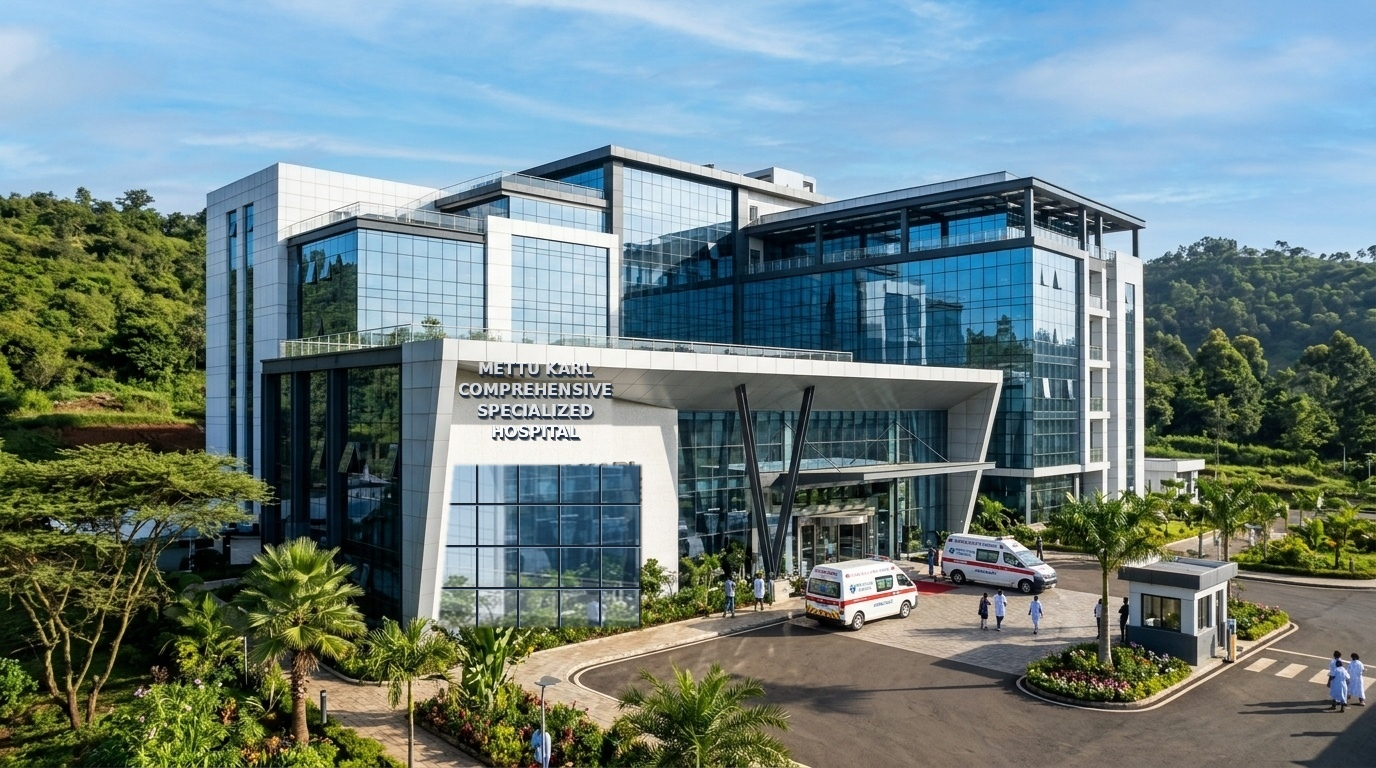
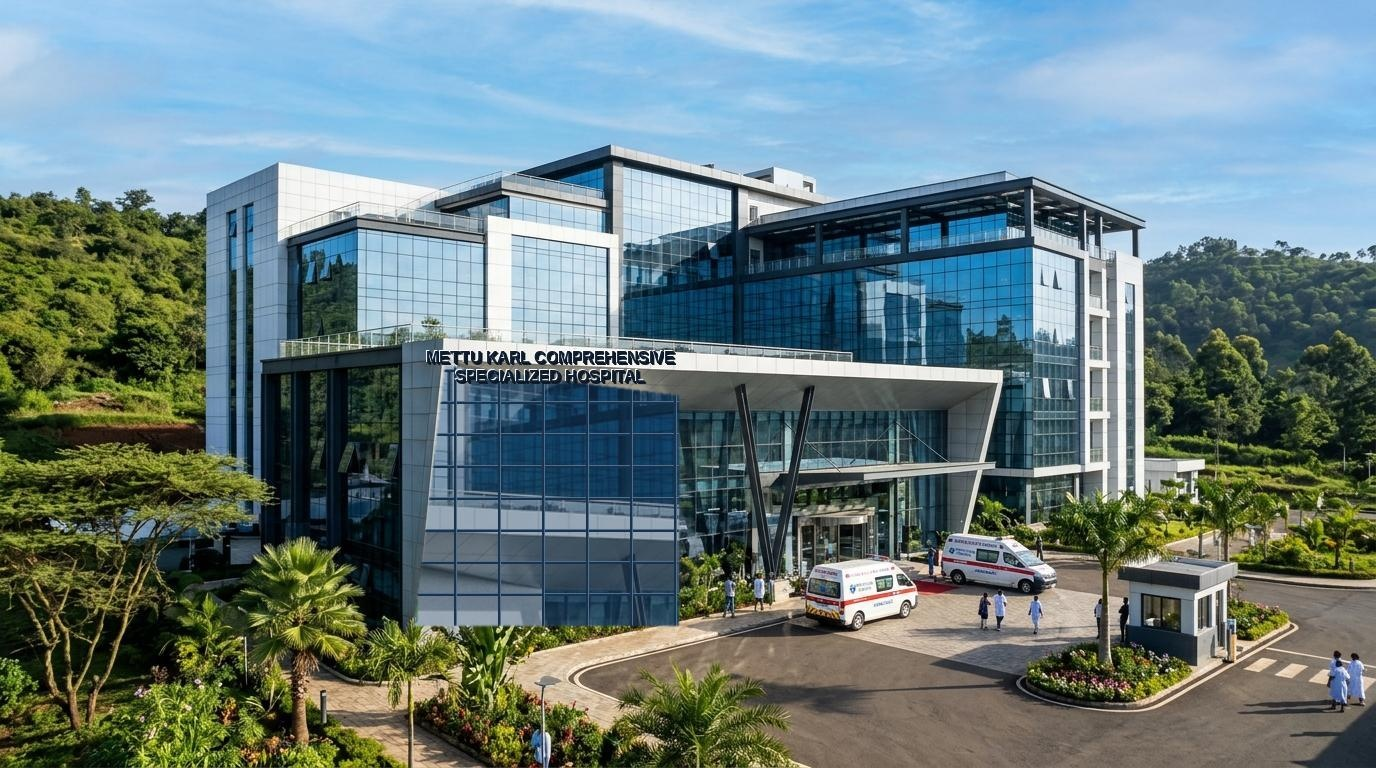
feat(ui): elevate signage to Ground+1 fooqii architectural fascia wall, fully glaze ground entrance, and bust browser cache

Changed region(s): [[0.2812, 0.4375, 0.5, 0.8438]]

diff --git a/frontend/src/app/(auth)/login/page.tsx b/frontend/src/app/(auth)/login/page.tsx
@@ -791,13 +791,13 @@ export default function LoginPage() {
         <div className="absolute inset-0 w-full h-full z-0 overflow-hidden bg-slate-950 pointer-events-none">
           {/* Direct, reliable HTML image rendering with crisp-edges & zero blur */}
           <picture className="w-full h-full block">
-            <source srcSet="/hospital-building.webp" type="image/webp" />
+            <source srcSet="/hospital-building.webp?v=5" type="image/webp" />
             <img
-              src="/hospital-building.jpg"
+              src="/hospital-building.jpg?v=5"
               alt="Mettu Karl Comprehensive Specialized Hospital Building"
               loading="eager"
               decoding="sync"
-              className="w-full h-full object-cover object-[38%_42%] sm:object-[center_35%] transform scale-100"
+              className="w-full h-full object-cover object-[37%_38%] sm:object-[center_36%] transform scale-100"
               style={{
                 imageRendering: 'crisp-edges',
                 WebkitBackfaceVisibility: 'hidden',

diff --git a/frontend/src/app/globals.css b/frontend/src/app/globals.css
@@ -416,7 +416,7 @@ main {
 
 /* Hospital Building Hero Framing: Ultra-clear HD architectural display with crisp-edges */
 .hero-building-image {
-  background-image: url('/hospital-building.jpg');
+  background-image: url('/hospital-building.jpg?v=5');
   background-size: cover;
   background-repeat: no-repeat;
   background-position: center center;
